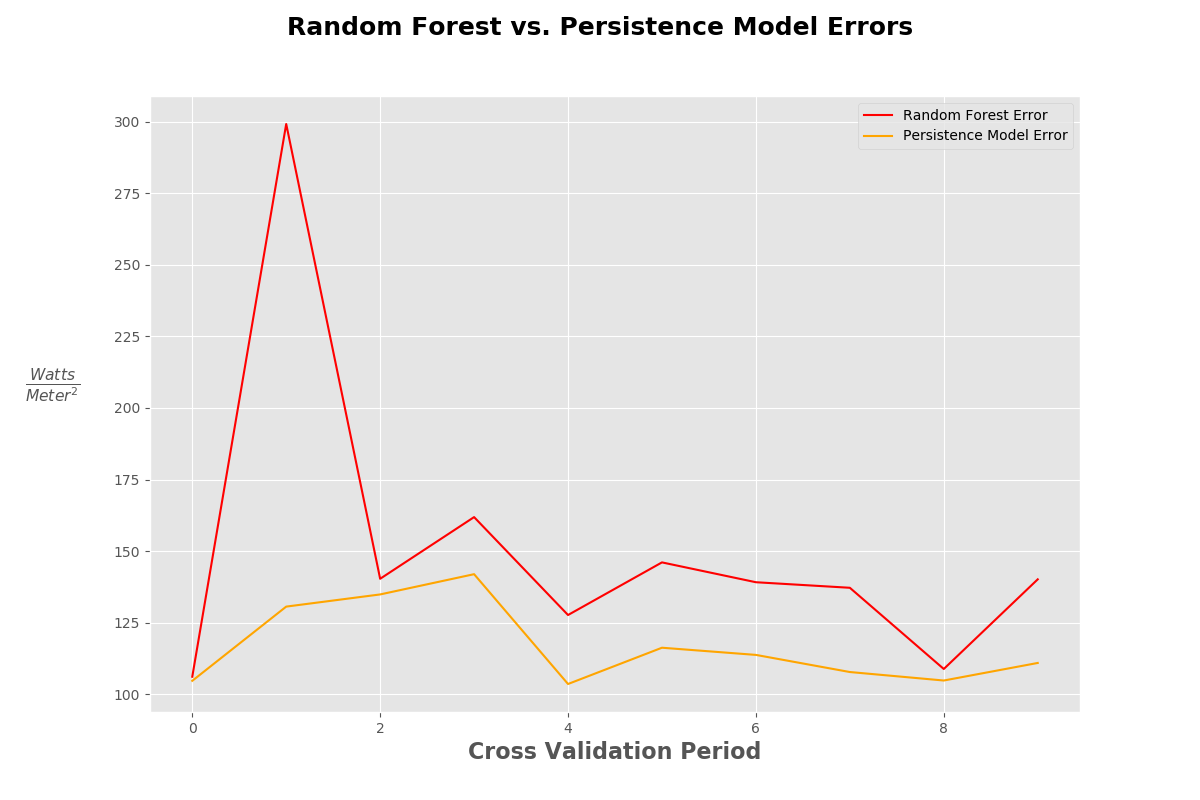
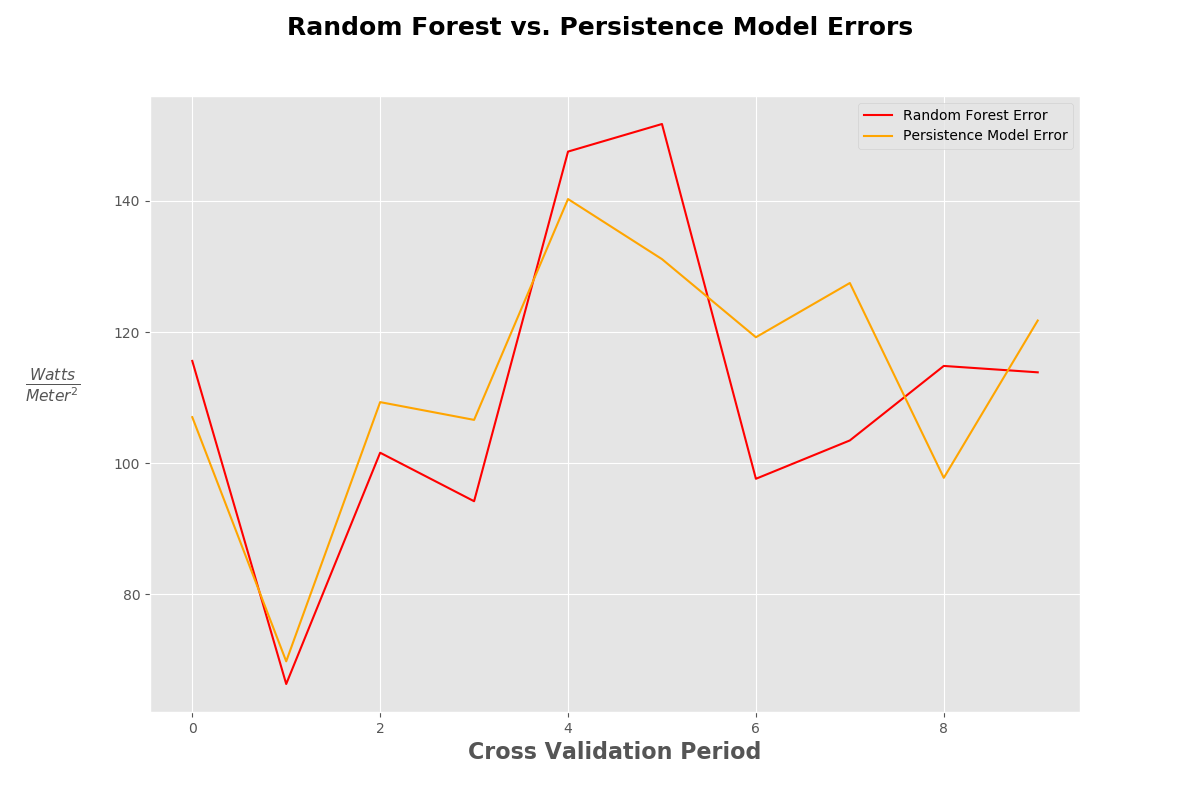
Add updated Predicting_DNI and random seed = 1

diff --git a/src/modeling.py b/src/modeling.py
@@ -42,7 +42,7 @@ def engineer_lagged_DNI_features(num_lagged_features, df):
     return df
 
 
-def create_X_y(df):
+def create_X_y(df, columns):
     """
     Creates a subset of df where only dates equal to date are included
 
@@ -57,32 +57,12 @@ def create_X_y(df):
 
     y = df.pop('DNI_T_plus15').values
 
-    X = df[['Year',
-            'Month',
-            'DOY',
-            'Hour',
-            'Minute',
-            'Direct Normal [W/m^2]',
-            'DNI_T_minus1',
-            'DNI_T_minus2',
-            'DNI_T_minus3',
-            'DNI_T_minus4',
-            'DNI_T_minus5',
-            'DNI_T_minus6',
-            'DNI_T_minus7',
-            'DNI_T_minus8',
-            'DNI_T_minus9',
-            'DNI_T_minus10',
-            'DNI_T_minus11',
-            'DNI_T_minus12',
-            'DNI_T_minus13',
-            'DNI_T_minus14',
-            'DNI_T_minus15']].values
+    X = df[columns].values
 
     return X, y
 
 
-def cross_validate(model, cv_iter, df):
+def cross_validate(model, columns, cv_iter, df):
     """
     A custom cross_validation function for predicting DNI 15 minutes
     out from the current time. The model is trained on 90 days worth
@@ -132,7 +112,7 @@ def cross_validate(model, cv_iter, df):
         train_end = pd.to_datetime(day)
         mask1 = df['final_date'] >= pd.to_datetime(train_start)
         mask2 = df['final_date'] < pd.to_datetime(train_end)
-        x_train, y_train = create_X_y(df[mask1 & mask2])
+        x_train, y_train = create_X_y(df[mask1 & mask2], columns)
 
 
         # cross_validation testing set
@@ -140,7 +120,7 @@ def cross_validate(model, cv_iter, df):
         test_start = pd.to_datetime(day) + pd.Timedelta("+1 days")
         mask3 = df['final_date'] >= pd.to_datetime(test_start)
         mask4 = df['final_date'] < pd.to_datetime(test_end)
-        x_test, y_test = create_X_y(df[mask3 & mask4])
+        x_test, y_test = create_X_y(df[mask3 & mask4], columns)
 
         pers_mod_y_hat_test = df[mask3 & mask4]['Direct Normal [W/m^2]']
 
@@ -157,7 +137,7 @@ def cross_validate(model, cv_iter, df):
         test_periods.append((test_start, test_end))
         train_periods.append((train_start, train_end))
 
-    print("Average RMSE over {} splits: {:.4f}".format(cv_iter, np.mean(rmses)))
+    print("\nAverage RMSE over {} splits: {:.4f}".format(cv_iter, np.mean(rmses)))
 
     return rmses, test_periods, train_periods, persistence_model
 
@@ -197,25 +177,74 @@ def error_plot(y_dict, colors, title, xlab, ylab, savefig=False):
     else:
         plt.show()
 
-def get_persistence_model_predictions(df):
-
-    return df['Direct Normal [W/m^2]']
 
 if __name__ == "__main__":
 
     df = get_master_df("../data/ivanpah_measurements.csv")
 
+    # drop un-used columns
+    df.drop(['PST',
+             'Global Horiz [W/m^2]',
+             'Global UVA [W/m^2]',
+             'Global UVE [W/m^2]',
+             'Global UVE [Index]',
+             'Dry Bulb Temp [deg C]',
+             'Avg Wind Speed @ 30ft [m/s]',
+             'Avg Wind Direction @ 30ft [deg from N]',
+             'Peak Wind Speed @ 30ft [m/s]',
+             'UVSAET Temp [deg C]',
+             'Logger Temp [deg C]',
+             'Logger Battery [VDC]',
+             'Wind Chill Temp [deg C]',
+              'Diffuse Horiz (calc) [W/m^2]'], axis=1, inplace=True)
+
+    print("\nData successfully loaded")
+
     df = engineer_lagged_DNI_features(15, df)
+
+    print("\n15 new features successfully engineered")
 
     train = df[df['Year'] < 2017]
     test = df[df['Year'] >= 2017]
 
+    print("\nTrain test split complete")
+
     # set seed
-    np.random.seed(10000)
+    np.random.seed(5)
+
+    columns = ['Year',
+            'Month',
+            'DOY',
+            'Hour',
+            'Minute',
+            'Direct Normal [W/m^2]',
+            'Zenith Angle [degrees]',
+            'Azimuth Angle [degrees]',
+            'Airmass',
+            'DNI_T_minus1',
+            'DNI_T_minus2',
+            'DNI_T_minus3',
+            'DNI_T_minus4',
+            'DNI_T_minus5',
+            'DNI_T_minus6',
+            'DNI_T_minus7',
+            'DNI_T_minus8',
+            'DNI_T_minus9',
+            'DNI_T_minus10',
+            'DNI_T_minus11',
+            'DNI_T_minus12',
+            'DNI_T_minus13',
+            'DNI_T_minus14',
+            'DNI_T_minus15']
 
     # base model
     rf = RandomForestRegressor()
-    cv_errors, cv_test_periods, cv_train_periods, pm_errors = cross_validate(rf, 10, train)
+
+    print("\nStarting cross validation...\n")
+
+    cv_errors, cv_test_periods, cv_train_periods, pm_errors = cross_validate(rf, columns, 10, train)
+
+    print("\nCross validation complete.")
 
     base_model_evaluation = zip(cv_train_periods, cv_test_periods, cv_errors, pm_errors)
     base_model_overview = []

diff --git a/Predicting_DNI.md b/Predicting_DNI.md
@@ -11,6 +11,14 @@ In contrast to PV power plants, CSP technology has the ability to efficiently an
 
 ![](images/csp_diagram.jpg)
 
+### Data Preview
+
+The weather station from which I obtained the data is located at 36.06°N, 115.08°W, which is roughly 65.96 km from Ivanpah (35.56°N, 115.47°W). While this distance is not inconsequential, my though process is that should my model prove useful, it could be deployed at the plant using their data.
+
+The data I used has meteorological measurements every minute from March 3, 2006 up to April 13, 2018 (one day prior to download), equating to slightly over six million observations. Variables include Zenith Angle, Azimuth Angle, Day of the Year (DOY), along with various other measurements.
+
+While there are a number of features that could provide additional predictive power, it is worth noting that the amount of information contained in only the DOY, Time, Zenith and Azimuth angle, as well as (implicit) latitude/longitude is rather high.
+
 ![](images/sun_position.png)
 
 ### The Problem
@@ -18,20 +26,6 @@ In contrast to PV power plants, CSP technology has the ability to efficiently an
 Knowing how much energy a plant will be able to produce is clearly highly dependent on the amount of DNI (measured in $\frac{Watts}{Meter^2}$ here) the heliostats receive, which, as we will see below, is highly irregular.
 
 The goal of this analysis will be to see how accurately different models are able to predict DNI 15 minutes into the future from any given minute during the day.
-
-![](images/correlation_plot.png)
-
-![](images/avg_monthly_irradiance.png)
-
-![](images/avg_hourly_irradiance.png)
-
-![](images/irradiance_20170704.png)
-
-![](images/irradiance_20170705.png)
-
-### Data Preview
-
-
 
 | Time Stamp  | DNI | DNI 15 Minutes from Now
 | ------------- | ------------- | ------------- |
@@ -50,6 +44,24 @@ The goal of this analysis will be to see how accurately different models are abl
 | 2015-06-11 11:20:00 | **893.600** | 896.846
 | 2015-06-11 11:21:00 | **895.570** | 898.221
 
+### Feature Engineering
+
+In addition to creating my target variables as shown above, for each observation I 15 new variables, with the DNI measurement of the timestamp *t* minutes back. (i.e for observation *i*, the variable named DNI_T_minus2 would be the time would be the DNI measurement of observation *i - 2*)
+
+
+### EDA
+
+![](images/correlation_plot.png)
+
+![](images/avg_monthly_irradiance.png)
+
+![](images/avg_hourly_irradiance.png)
+
+![](images/irradiance_20170704.png)
+
+![](images/irradiance_20170705.png)
+
+
 ### My Base Model vs The Benchmark
 
 According to a [2013 article ](https://ac-els-cdn-com.www2.lib.ku.edu/S1364032113004334/1-s2.0-S1364032113004334-main.pdf?_tid=41f83cfe-de21-4d94-803f-a7470d8e51df&acdnat=1523992118_8198b37af15a4d0e24f139dfcd721a9d) that reviewed the current statistical models used to predict global irradiance, the benchmark model, called the *Persistence Model*, predicts that irradiance at time step $t$ is equal to irradiance at time step $t-1$. That is to say,
@@ -60,19 +72,32 @@ I decided to use a Random Forest Regressor as my base model to compare against t
 
 | Train Start  | Train End | Test Start | Test End | Test RMSE | Persistence Model RMSE |
 | ------------- | ------------- | ------------- | ------------- | ------------- | ------------- |
-| 2016-08-29 | 2016-11-27 | 2016-11-28 | 2016-12-28 | 106.086681 | 104.662225
-| 2006-02-09 | 2006-05-10 | 2006-05-11 | 2006-06-10 | 299.232761 | 130.591648
-| 2016-01-05 | 2016-04-04 | 2016-04-05 | 2016-05-05 | 140.317356 | 134.845834
-| 2012-05-19 | 2012-08-17 | 2012-08-18 | 2012-09-17 | 161.868311 | 141.924265
-| 2015-09-15 | 2015-12-14 | 2015-12-15 | 2016-01-14 | 127.654941 | 103.548290
-| 2011-07-30 | 2011-10-28 | 2011-10-29 | 2011-11-28 | 146.043241 | 116.224239
-| 2010-09-19 | 2010-12-18 | 2010-12-19 | 2011-01-18 | 139.110381 | 113.714270
-| 2014-10-24 | 2015-01-22 | 2015-01-23 | 2015-02-22 | 137.170199 | 107.731116
-| 2010-05-03 | 2010-08-01 | 2010-08-02 | 2010-09-01 | 108.796504 | 104.764394
-| 2013-11-14 | 2014-02-12 | 2014-02-13 | 2014-03-15 | 140.121192 | 110.903093
+0  2014-06-12 | 2014-09-10 | 2014-09-11 | 2014-10-11 | 115.591173 | 107.016514
+1  2012-02-19 | 2012-05-19 | 2012-05-20 | 2012-06-19 | 66.310551 | 69.769965
+2  2010-09-08 | 2010-12-07 | 2010-12-08 | 2011-01-07 | 101.588658 | 109.306903
+3  2014-10-21 | 2015-01-19 | 2015-01-20 | 2015-02-19 | 94.189279 | 106.596711
+4  2015-03-14 | 2015-06-12 | 2015-06-13 | 2015-07-13 | 147.521541 | 140.283792
+5  2009-11-11 | 2010-02-09 | 2010-02-10 | 2010-03-12 | 151.730660 | 131.118673
+6  2011-10-09 | 2012-01-07 | 2012-01-08 | 2012-02-07 | 97.613848 | 119.203864
+7  2008-10-15 | 2009-01-13 | 2009-01-14 | 2009-02-13 | 103.462630 | 127.478184
+8  2007-12-28 | 2008-03-27 | 2008-03-28 | 2008-04-27 | 114.826339 | 97.758155
+9  2011-05-23 | 2011-08-21 | 2011-08-22 | 2011-09-21 | 113.852410 | 121.753249
+
+
+
+
+
+
+
+
+
+
+
 
 
 ![](images/cross_validation_plot.png)
+
+*(It is notable that I performed cross-validation using various random seeds, there were some test periods where there was a drastic difference between the random forest classifier and the base model. This would require further exploration to deem causation.)*
 
 ### Neural Networks
 
